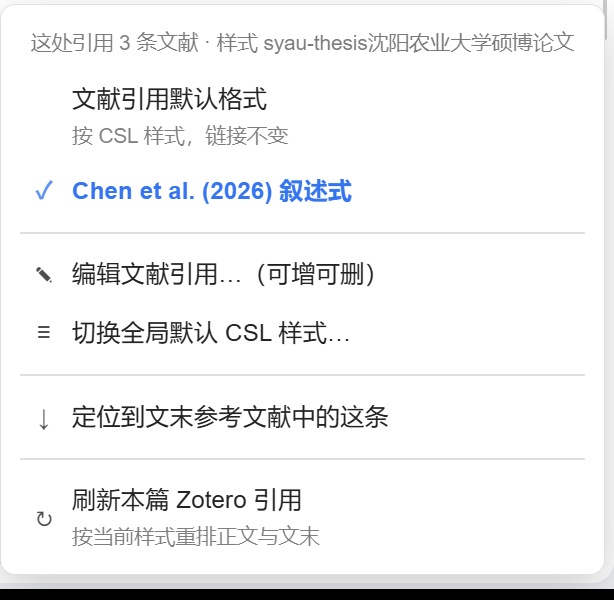
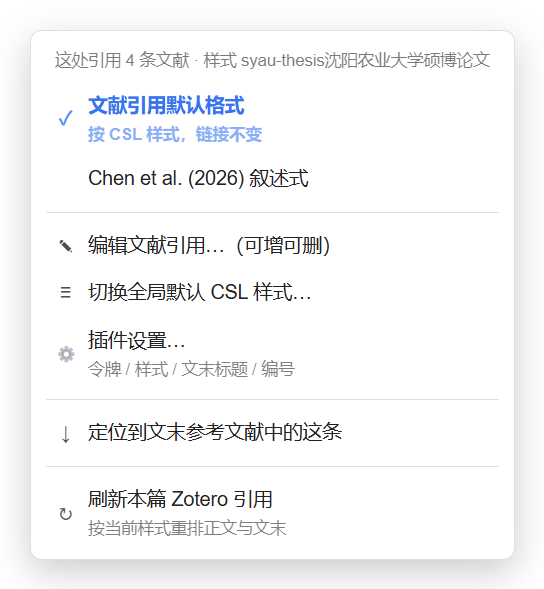
1.2.33：README 补齐引用快照等新功能，首图与右键菜单配图换成真实截图
README（中英同步）：
- 新增 2.9 引用快照兜底、2.10 只改该改的块、3.7 文献被删/换机的兜底
- 新增 7.5「文献在 Zotero 里被删了，或者换了台电脑」：三处痕迹对照、快照行为、
  体积与六条实测边界（不补回 Zotero、数字式编号是上次的、如何清除）
- 5.3 补「样式状态」一行与缺样式拒绝重排的说明；5.2 补换机要装 .csl
- 6 触发词表补「右键 · 插件设置…」，块内右键顺延为 6.14
- 7.2 由「右键 5 项」更正为 7 项，补「插件设置…」
- 8 现有不足补快照三条局限；9 技术实现补「引用快照」「最小写入」两行
- 版本史加 1.2.33

配图：
- assets/example-doc.png 换成真实论文截图（APA 作者年 + 合并引用 + 叙述式 +
  References 表），去掉截图里的文本光标，256 色压缩 301KB→137KB
- assets/context-menu.png 重拍（原图缺「插件设置…」），白底重截 57KB→18KB

diff --git a/README_en.md b/README_en.md
@@ -1,4 +1,4 @@
-# Zotero Cite (siyuan-plugin-zotero-cite) v1.2.32
+# Zotero Cite (siyuan-plugin-zotero-cite) v1.2.33
 
 **English** | [简体中文](./README.md)
 
@@ -10,20 +10,22 @@ Insert Zotero citations into SiYuan — both the in-text citation and the biblio
 
 ## 2 What it does
 
-<img src="assets/example-doc.png" alt="In-text citation and the generated bibliography" onerror="this.src='/plugins/siyuan-plugin-zotero-cite/assets/example-doc.png'">
+<img src="assets/example-doc.png" alt="In-text citations and the generated References list" onerror="this.src='/plugins/siyuan-plugin-zotero-cite/assets/example-doc.png'">
 
-Both the in-text citation and the bibliography at the bottom are rendered directly by the CSL style installed in Zotero. Switch styles once and both sides are re-paginated — no manual editing.
+Both the in-text citations — merged as `(Dela Cruz et al., 2026; Ge et al., 2026)`, narrative as `Ye et al. (2026)` — and the References list at the bottom are rendered directly by the CSL style active in Zotero. Switch styles once and both sides are re-rendered with no manual editing; the ↗ next to each entry jumps back to Zotero.
 
 | Feature | Detail |
 |---|---|
 | 2.1 One-click insert | Select items in Zotero (multi-select allowed), click once in SiYuan, both the text and the bibliography update. No dialog |
 | 2.2 Text follows CSL exactly | How the citation reads, how multiple items are joined, whether `[n]` appears — all decided by the active Zotero style (APA, Nature, IEEE, GB/T 7714, ACS, journal-specific styles) |
 | 2.3 Two forms, mixable per citation | Default form (parent item / author-date / numeric) plus narrative `Chen et al. (2021)`; you can mix them in one document and even stack them as `Chen et al. (2021) [1]` |
-| 2.4 Edit existing citations | Switch form, add or remove references of that citation, change the document-wide CSL style, jump to the matching bibliography entry |
-| 2.5 Bibliography maintained automatically | Order follows the style (alphabetical for author-date, citation order for numeric); entry numbering follows the CSL style by default, and can be turned off or replaced with a custom template; re-rendered when the style changes |
+| 2.4 Edit existing citations | Switch form, add or remove references of that citation, change the document-wide CSL style, jump to the matching bibliography entry, refresh the document, or open the plugin settings right from the menu |
+| 2.5 Bibliography maintained automatically | Order follows the style (alphabetical for author-date, citation order for numeric); entry numbering follows the CSL style by default, and can be turned off or replaced with a custom template; re-rendered when the style changes; rebuilt in place, so an appendix written after the list never gets swallowed into the bibliography |
 | 2.6 Click to jump back to Zotero | Clicking a citation selects that item in Zotero; multi-item citations select all of them |
 | 2.7 Parent items only | Selecting a PDF or an annotation in Zotero resolves to its parent item; standalone notes and attachments never appear |
 | 2.8 Undo | 20 steps per document, style switches included |
+| 2.9 Citation snapshot fallback | The trimmed CSL data of every reference plus its last rendered text are stored in a document attribute (~0.3 KB each). When an item is gone from Zotero, or missing on this machine after a sync, re-rendering restores the previous text and tells you exactly which keys it could not find |
+| 2.10 Only the blocks that changed | Blocks whose content is unchanged are not written at all — the same holds for citations inside lists, tables and headings; ten consecutive runs leave both content and block attributes untouched |
 
 ## 3 Problems it solves in SiYuan
 
@@ -35,6 +37,7 @@ Both the in-text citation and the bibliography at the bottom are rendered direct
 | 3.4 In-text citations and bibliography entries have no link to each other, so removing a reference means fixing both ends | Both ends share the same itemKey; delete an in-text citation, re-render, and the bibliography entry disappears |
 | 3.5 Finding which paper a sentence came from means digging through Zotero | Click the citation to jump to Zotero with the item selected — all items for a multi-item citation |
 | 3.6 Journal and thesis templates differ wildly; hand-formatting is error-prone | Thousands of CSL styles are available instantly, and custom CSL files work too |
+| 3.7 A reference deleted from Zotero, or missing on this machine after a sync, silently changes the text | The text from the last successful render is kept in a document attribute and used as a fallback; the notification names every key that is no longer in Zotero (see 7.5) |
 
 ## 4 How it compares
 
@@ -79,7 +82,7 @@ Without the Debug Bridge nothing listens on that endpoint and every request fail
 5. SiYuan → Settings → Bazaar → Downloaded → Plugins → Zotero Cite → Settings, paste the same token into "Access token"
 6. Click "Test connection"; `Connected: Zotero 10.x, library ID 1` means you are done
 
-Repeating steps 1–5 is required on a new machine (the token lives in Zotero's `prefs.js` and does not sync with SiYuan).
+Repeating steps 1–5 is required on a new machine (the token lives in Zotero's `prefs.js` and does not sync with SiYuan). A custom `.csl` also has to be installed there, otherwise the settings panel shows a red warning and re-rendering is refused (see "Style status" in 5.3).
 
 ### 5.3 Settings
 
@@ -88,10 +91,13 @@ Repeating steps 1–5 is required on a new machine (the token lives in Zotero's 
 | Bridge URL | `http://127.0.0.1:23119/debug-bridge/execute` | Rarely needs changing |
 | Access token | empty | The token from step 4 in 5.2 |
 | Default citation form | Default (CSL) | Affects new citations only; existing ones follow their own `?f=` |
-| CSL style | current style | You can paste a style URL directly |
+| CSL style | current style | You can paste a style URL directly. A fresh install defaults to APA, which ships with every Zotero |
 | Pick from installed styles… | — | Opens the style picker; search and switch, whole document re-renders |
+| Style status | checked automatically | Opening the panel verifies that this style exists in Zotero on this machine: `✓ installed: …` in grey; `✗ this style is not installed, refresh and insert will be refused` in red, with a "use the built-in APA" button; if Zotero is unreachable it only says it cannot tell, and offers no button |
 | Bibliography heading | Auto | "Auto" picks 参考文献 or References from the CSL style's language; choose "no heading" to output entries only and write the heading yourself; or type any custom text |
 | Citations carry links | on | Turn off for plain text; click-to-Zotero and the right-click menu stop working |
+
+When the style is missing the plugin **does not** quietly substitute another one and overwrite the whole document: the refresh is refused, not a single byte of the body changes, and the message names the missing style. This typically happens when SiYuan settings sync to a machine that lacks that `.csl`.
 
 ## 6 Slash command and shortcuts
 
@@ -109,7 +115,8 @@ Repeating steps 1–5 is required on a new machine (the token lives in Zotero's 
 | 6.10 Right-click · Change document CSL style… | Right-click an in-text citation → item 4, opens the style picker | — |
 | 6.11 Right-click · Locate this entry in the bibliography | Right-click an in-text citation → item 5, scrolls to the entry and highlights it for 1.9 s | — |
 | 6.12 Right-click · Refresh Zotero citations in this document | Right-click an in-text citation → item 6, re-renders every citation and the bibliography with the current style | — |
-| 6.13 In-block right-click · Insert Zotero citation | Right-click inside any paragraph → "Insert Zotero citation", inserts the items currently selected in Zotero | — |
+| 6.13 Right-click · Plugin settings… | Right-click an in-text citation → item 7, opens this plugin's settings page directly (no need to dig through the bazaar) | — |
+| 6.14 In-block right-click · Insert Zotero citation | Right-click inside any paragraph → "Insert Zotero citation", inserts the items currently selected in Zotero | — |
 
 The right-click menu only works on **in-text citations**, and only affects the citation you clicked. The `[↗]` link on a bibliography entry does not open the menu — it is the jump-back-to-Zotero link. None of the menu items has a default shortcut; bind the matching commands in Settings → Keymap → Plugins if you want one.
 
@@ -127,7 +134,7 @@ The right-click menu only works on **in-text citations**, and only affects the c
 
 If nothing is selected in Zotero you get a one-line hint, never a dialog.
 
-### 7.2 Edit an existing citation (right-click, 6 items)
+### 7.2 Edit an existing citation (right-click, 7 items)
 
 Right-click an in-text citation and you get this menu:
 
@@ -139,7 +146,9 @@ Right-click an in-text citation and you get this menu:
 | `Chen et al. (2026)` narrative | Switches to narrative; this citation only; greyed out for numeric styles |
 | Edit references… (add or remove) | Lists every item of this citation — untick to remove; append the current Zotero selection or add by keyword search |
 | Change document CSL style… | Reads styles installed in Zotero, applies your pick, re-renders the whole document |
+| Plugin settings… | Opens this plugin's settings page: token, default form, style and bibliography heading all live there |
 | Locate this entry in the bibliography | Scrolls to the entry and highlights it for 1.9 s; all items get highlighted |
+| Refresh Zotero citations in this document | Re-renders every citation and the bibliography with the current style — the same as running "re-render the whole document" from the menu |
 
 "Edit references…" opens the window below. Unticking an item drops it from this citation; numbers are only assigned to the items you keep, and they renumber as you untick:
 
@@ -165,23 +174,55 @@ An in-text citation is just a markdown link:
 [(Bordoloi et al., 2019)](zotero://select/library/items/UAPYI8NA?f=csl)
 ```
 
-1. The link is the single source of truth; re-rendering collects order from the body
+1. The link is the only source of order on re-render: every `zotero://` link is collected from the body and numbered by appearance
 2. `?f=` is the form of that citation (`csl` / `narr`), stored per citation
 3. Multi-item: `items/KEY1?zkeys=KEY1,KEY2&f=csl`
 4. Bibliography entry links carry `?bib=1` and are skipped when re-rendering, so deleted references do not come back
+5. The visible text of each reference also has a document-level snapshot as a fallback — see the next section
+
+### 7.5 A reference was deleted from Zotero, or you moved to another machine
+
+Normally every string is fetched from Zotero and re-rendered each time. Once an item cannot be found on this machine (deleted, never synced here, or a different library), older builds left three traces with **no warning at all**:
+
+| Trace | Symptom |
+|---|---|
+| The in-text citation | Still shows the old text and looks fine, but it no longer resolves and is not numbered |
+| A merged citation (A + B) | Only A remains while `?zkeys=` still lists B — no error, nothing visible |
+| The bibliography | A trailing row containing nothing but `↗` |
+
+Every re-render now packs "trimmed CSL data of each reference + the text rendered last time" into the document attribute `custom-zotero-bibsnap`, and uses it whenever an item cannot be found:
+
+| Case | Current behaviour |
+|---|---|
+| Bibliography entry | Restored from the snapshot instead of becoming an empty row |
+| Merged in-text citation | Overwritten with the complete text stored for that cluster, so nothing silently drops out |
+| Notification | The message gains `; N references not found in Zotero (KEY1, KEY2…), restored from the citation snapshot saved in this document` |
+| A document that never rendered successfully | No snapshot exists; those spots are left untouched and the message says so |
+
+Measured behaviour and limits:
+
+1. ~0.3 KB per reference (abstract, notes and tags are dropped, only fields needed to rebuild an entry are kept); 100 references ≈ 30 KB, and it syncs with the document
+2. The snapshot is only updated by a **successful** render; a cluster that still contains an unfindable key never overwrites the old snapshot with the degraded text (otherwise one fallback would permanently downgrade the archive)
+3. The snapshot only protects rendering. It does **not** push items back into Zotero — real recovery still means re-importing from a backup or library
+4. Adding a reference to that citation changes the key combination, so it renders from the new combination and the old snapshot no longer applies there
+5. With numeric styles `[n]` is a document-wide sequence number; a restored entry carries last time's number and may not match the current order — check before submission
+6. To wipe it completely, delete the `custom-zotero-bibsnap` attribute; the next render creates a fresh one
 
 ## 8 Limitations
 
 1. **Hard dependency on Zotero + Debug Bridge** — without it the plugin does nothing; it is not self-contained
 2. **Zotero only** — EndNote, Mendeley, NoteExpress and direct PubMed lookup are not supported
 3. **Desktop only** — it needs the local port 23119, so the web and mobile clients cannot use it
-4. **Bibliography entries are owned by the plugin** — every entry carries a `custom-zotero-bib` block attribute and a re-render only replaces those marked blocks. Do not edit that attribute by hand, and do not expect entries moved elsewhere to still be recognised
+4. **Bibliography entries are owned by the plugin** — every entry carries a `custom-zotero-bib` block attribute and a re-render only replaces those marked blocks. Do not edit that attribute by hand, and do not expect entries moved elsewhere to still be recognised. Rebuilds are inserted back in place, between the previous and next entry, so an acknowledgement or appendix written after the list is not swallowed into it; if every old entry is gone and there is no neighbour to anchor to, the new list can only be appended at the end of the document
 5. **"Auto" heading is a guess** — the test is whether the CSL style title contains CJK characters, plus keywords in the style ID (GB/T 7714, CSTR, …). A homemade private style may be misjudged; set the heading text explicitly in settings
 6. **Undo is a separate stack** — `Ctrl+Z` only covers inserting; re-rendering and style switches need the plugin's own undo command
 7. **Narrative form is author-date only** — IEEE and GB/T numeric styles have no such concept
 8. **Bibliography numbering follows the CSL style by default** — numeric styles produce `[1]` / `1.` (a leading `1. ` is written in escaped form so markdown does not turn it into an ordered list); author-date styles have none. You can switch to "no numbering" or a custom template (`{n}` = sequence) in settings. Check your journal's requirement before submission
 9. **Reconfiguration on a new machine** — Debug Bridge and the token must be reinstalled and re-entered
 10. **Performance degrades with document size** — a long document with many citations re-renders block by block and visibly pauses. **Recommended ceiling: keep one document under 100,000 characters and fewer than 300 citations**
+11. **The snapshot is a fallback, not a backup** — `custom-zotero-bibsnap` only keeps the fields needed for rendering, so it keeps old documents looking right but cannot push items back into Zotero, and it cannot restore abstracts, notes or PDFs. Real recovery still means re-importing
+12. **Snapshot numbering is last time's** — with numeric styles `[n]` is assigned by CSL in document order, so a restored entry carries the previous number and may not match the current sequence; documents that never rendered successfully have no snapshot at all
+13. **The snapshot syncs with the document** — about 0.3 KB per reference (100 references ≈ 30 KB). It lands in the `.sy` file and travels with SiYuan sync, so citation-heavy documents carry a larger attribute value
 
 ---
 
@@ -190,9 +231,11 @@ An in-text citation is just a markdown link:
 | Step | Approach |
 |---|---|
 | Talking to Zotero | Talks to `http://127.0.0.1:23119/debug-bridge/execute` directly, running a small piece of JS inside Zotero to fetch item metadata, installed CSL styles and the rendered citation string. No helper process, no proxy service |
-| What a citation is | An ordinary markdown link `[(Bordoloi et al., 2019)](zotero://select/library/items/UAPYI8NA?f=csl)`; the link itself is the single source of truth (see 7.4) |
+| What a citation is | An ordinary markdown link `[(Bordoloi et al., 2019)](zotero://select/library/items/UAPYI8NA?f=csl)`. The link is the source of order and the form marker on re-render (see 7.4), with a document-level snapshot as fallback (see 7.5) |
 | Citation text | Rendered by the CSL style installed in Zotero; in-text and bibliography strings come from the same source and are re-rendered together when the style changes |
-| Bibliography | Entries are recognised by a `custom-zotero-bib` block attribute (old documents fall back to matching the heading text) and only those marked blocks are replaced; the heading is auto-generated, customised, or omitted entirely per settings; entry links carry `?bib=1` and are skipped on re-render, so deleted references never come back |
+| Bibliography | Entries are recognised by a `custom-zotero-bib` block attribute (old documents fall back to matching the heading text) and only those marked blocks are replaced; new entries are inserted back in place between the previous and next one, and marked by anchor; the heading is auto-generated, customised, or omitted entirely per settings; entry links carry `?bib=1` and are skipped on re-render, so deleted references never come back |
+| Citation snapshot | 27 CSL fields per reference (abstract, notes and tags dropped) plus the last rendered in-text/bibliography text, serialised to JSON, gzipped and base64-encoded into `custom-zotero-bibsnap` (prefix `z1:`; plain base64 with `j0:` when zlib is unavailable). The value contains no quotes, braces or underscores, which sidesteps the entity escaping and `_esc_newline_` rewriting of block attributes |
+| Minimal writes | Each block's canonical content is computed first (code masked → block attributes stripped → zero-width characters removed); if it already matches and no attribute has leaked into the text, the block is skipped entirely. Best-effort writes fail quietly instead of turning a kernel error into a notification |
 | Undo | One stack per document, 20 steps, written back through the kernel `/api/transactions` API |
 | Runtime | SiYuan desktop renderer (Node available); the web and mobile clients have no port 23119 and cannot use it |
 | Code layout | A single `index.js`: plugin class + three dialogs + right-click menu + settings page; `index.css` only handles layout and takes every color from SiYuan CSS variables, so light and dark themes follow automatically |
@@ -221,6 +264,7 @@ MIT License © 2026 ttChen
 
 | Version | Date | Highlights |
 |---|---|---|
+| 1.2.33 | 2026-11-04 | **Citation snapshot**: the trimmed CSL data and last rendered text of every reference are stored in the document attribute `custom-zotero-bibsnap`, so an item missing from Zotero is restored from the previous text and named in the notification (no more silent empty text / dropped reference in a merged citation / empty `↗` row). The bibliography is now rebuilt in place, so an appendix written after the list is no longer swallowed into it. Re-rendering no longer throws `tree not found` toasts; citations inside lists, tables and headings stop being rewritten on every run; a just-inserted citation no longer stays unrendered; command-palette failures are reported. Added a 30-case automated test suite (idempotency / snapshot / missing item / undo / concurrency / 100-reference scale) |
 | 1.2.32 | 2026-11-04 | Default style pinned to APA, which ships with every Zotero install, so first use can no longer fail on a missing style; a style missing on this machine now refuses to refresh (instead of silently swapping in another style) and the settings panel shows a red warning plus a one-click "use the built-in APA" button |
 | 1.2.31 | 2026-11-04 | Setup guide moved to a new domain (`ttchen.cn42.ug.link`, the old luyouxia tunnel was unstable); added a "Plugin settings…" item to the citation context menu |
 | 1.2.30 | 2026-11-04 | Bibliography heading is now "Auto" (参考文献 / References from the CSL style language, or none at all, or custom); entries are located by the `custom-zotero-bib` block attribute, so renaming or deleting the heading no longer duplicates the list |

diff --git a/README.md b/README.md
@@ -1,4 +1,4 @@
-# Zotero Cite（siyuan-plugin-zotero-cite）v1.2.32
+# Zotero Cite（siyuan-plugin-zotero-cite）v1.2.33
 
 **简体中文** | [English](./README_en.md)
 
@@ -10,20 +10,22 @@
 
 ## 2 主要功能
 
-<img src="assets/example-doc.png" alt="正文引用与文末参考文献表" onerror="this.src='/plugins/siyuan-plugin-zotero-cite/assets/example-doc.png'">
+<img src="assets/example-doc.png" alt="正文引用与文末 References 文献表" onerror="this.src='/plugins/siyuan-plugin-zotero-cite/assets/example-doc.png'">
 
-正文那行引用和文末的「参考文献」都由 Zotero 的 CSL 样式直接渲染：换一套样式，两处一起重排，不用手改一个字。
+正文里的引用（`(Dela Cruz et al., 2026; Ge et al., 2026)` 这种多条合并、`Ye et al. (2026)` 这种叙述式）和文末的 References 表，全部由 Zotero 里当前那套 CSL 样式直接渲染：换一套样式，两处一起重排，不用手改一个字；每个条目后面的 ↗ 点一下就跳回 Zotero。
 
 | 功能 | 说明 |
 |---|---|
 | 2.1 一步插入 | 在 Zotero 选中文献（可多选），回思源点一下入口即插入，正文与文末同时更新，不弹窗 |
 | 2.2 文本严格按 CSL | 正文长什么样、多条怎么合并、要不要带 `[n]`，全部由 Zotero 当前样式决定（APA、Nature、IEEE、GB/T 7714、ACS、期刊自定义样式均可） |
 | 2.3 两种形态、逐条混用 | 默认形态（父条目/作者年/数字）+ 叙述式 `Chen et al. (2021)`；同一篇里可混用，也支持叠加 `Chen et al. (2021) [1]` |
-| 2.4 右键改已有引用 | 切换形态、增删该处文献、切换全文 CSL 样式、定位到文末对应条目、刷新本篇引用 |
-| 2.5 文末文献表自动生成 | 顺序按样式（作者年=字母序，数字式=引用序）；编号默认跟随 CSL 样式，可在设置里关掉或换成自定义写法；换样式后自动重排 |
+| 2.4 右键改已有引用 | 切换形态、增删该处文献、切换全文 CSL 样式、定位到文末对应条目、刷新本篇引用、直接打开插件设置 |
+| 2.5 文末文献表自动生成 | 顺序按样式（作者年=字母序，数字式=引用序）；编号默认跟随 CSL 样式，可在设置里关掉或换成自定义写法；换样式后自动重排；重建时按原位置插回，写在表后面的致谢、附录不会被卷进去 |
 | 2.6 点击回跳 Zotero | 单击引用即在 Zotero 选中该文献；多条目合并的引用会同时选中全部 |
 | 2.7 只认父条目 | 在 Zotero 里选中 PDF 或批注，自动上溯到所属文献；独立笔记/独立附件不出现 |
 | 2.8 可撤销 | 每篇文档 20 步，样式切换也能回滚 |
+| 2.9 引用快照兜底 | 每条文献的精简 CSL 数据与上次渲染出的文本一起存进文档属性（约 0.3 KB/条）。Zotero 里删了这条、或换台机没同步全时，重排用快照把原文放回去，并明确告诉你哪几条已经找不到 |
+| 2.10 只改该改的块 | 内容没变的块一个字节都不写，列表、表格、标题里的引用同样成立；连跑十轮，文档内容与块属性完全不动 |
 
 ## 3 它解决了思源的哪些问题
 
@@ -35,6 +37,7 @@
 | 3.4 正文引用与文末条目没有对应关系，删文献要两头对 | 同一条文献在正文与文末共用 itemKey，删掉正文引用后重排，文末自动收掉 |
 | 3.5 想查某句话出自哪篇，得自己回 Zotero 找 | 点引用直接跳 Zotero 并选中该条目，多条目一起选 |
 | 3.6 中英文期刊、学位论文模板各异，手工排极易出错 | CSL 样式库几千种随取随用，导入自定义 CSL 同样生效 |
+| 3.7 文献在 Zotero 里被删、或换台机没同步全，正文引用会无声变样 | 上次成功重排的原文存在文档属性里，取不到时用它兜底，并在提示里点名哪几条已经不在 Zotero 中（详见 7.5） |
 
 ## 4 和其他思源文献插件比
 
@@ -81,7 +84,7 @@
 5. 思源 → 设置 → 集市 → 已下载 → 插件 → Zotero 引用 → 设置，把同一令牌填进「访问令牌」
 6. 点「测试连接」，看到 `连接正常：Zotero 10.x，库 ID 1` 即通
 
-换电脑要重做第 1–5 步（令牌存在 Zotero 的 prefs.js，不随思源同步）。
+换电脑要重做第 1–5 步（令牌存在 Zotero 的 prefs.js，不随思源同步）。自定义的 `.csl` 也要在新机装一遍，否则设置面板会红字提示缺样式、重排直接拒绝（见 5.3「样式状态」）。
 
 ### 5.3 设置项
 
@@ -90,10 +93,13 @@
 | Bridge 地址 | `http://127.0.0.1:23119/debug-bridge/execute` | 一般不用改 |
 | 访问令牌 | 空 | 5.2 第 4 步设置的 token |
 | 默认引用形态 | 文献引用默认格式 | 只影响新插入的引用；已有引用按自己链接里的 `?f=` 走 |
-| CSL 样式 | 当前使用样式 | 可手填样式 URL |
+| CSL 样式 | 当前使用样式 | 可手填样式 URL。新装默认为 Zotero 自带、任何一台机都有的 APA |
 | 从 Zotero 已装样式里选一个… | — | 打开样式选择器，搜索后一键切换，全文重排 |
+| 样式状态 | 自动检查 | 打开面板即核对当前样式在这台机的 Zotero 里是否存在：`✓ 本机 Zotero 已装：…` 灰字；`✗ 本机 Zotero 没有这个样式，重排与插入会被拒绝` 红字，并给一个「改用 Zotero 自带样式（APA）」按钮；Zotero 没连上时只提示无法确认，不给按钮 |
 | 文末标题 | 自动 | 「自动」＝按 CSL 样式的语言选：「参考文献」或 References；选「不生成标题」就只输出条目，标题自己在文档里写；也可以填任意文字 |
 | 引用带链接 | 开 | 关掉只留纯文本，点击跳转与右键菜单失效 |
+
+样式缺失时**不会**悄悄换成别的样式把全篇覆盖掉：重排直接拒绝，正文一个字不动，提示里说明缺哪个。常见于思源配置同步到了另一台没装这个 `.csl` 的电脑。
 
 ## 6 触发词与快捷键
 
@@ -111,7 +117,8 @@
 | 6.10 右键 · 切换全局默认 CSL 样式… | 在正文引用上右键 → 第四项，打开样式选择器 | — |
 | 6.11 右键 · 定位到文末参考文献中的这条 | 在正文引用上右键 → 第五项，滚到文末并高亮 1.9 秒 | — |
 | 6.12 右键 · 刷新本篇 Zotero 引用 | 在正文引用上右键 → 第六项，按当前样式重排本篇正文引用与文末 | — |
-| 6.13 块内右键 · 插入 Zotero 文献引用 | 在任意段落内部右键 → 「插入 Zotero 文献引用」，用 Zotero 当前选中项直接插入 | — |
+| 6.13 右键 · 插件设置… | 在正文引用上右键 → 第七项，直接打开本插件的设置面板（改令牌、换样式不用再去集市里翻） | — |
+| 6.14 块内右键 · 插入 Zotero 文献引用 | 在任意段落内部右键 → 「插入 Zotero 文献引用」，用 Zotero 当前选中项直接插入 | — |
 
 右键菜单只作用于**正文引用**和它所属的那一条引用；点文末参考文献条目上的 `[↗]` 不弹菜单（那是回跳 Zotero 的入口）。菜单没有默认快捷键，需要的话可在 设置 → 快捷键 → 插件 里给对应命令绑定。
 
@@ -129,7 +136,7 @@
 
 Zotero 里没选中条目时只提示一句，不弹窗。
 
-### 7.2 改已有引用（右键 5 项）
+### 7.2 改已有引用（右键 7 项）
 
 在正文引用上右键，弹出的菜单长这样：
 
@@ -141,6 +148,7 @@ Zotero 里没选中条目时只提示一句，不弹窗。
 | `Chen et al. (2026)` 叙述式 | 改成叙述式，只影响这一处；数字式样式下置灰 |
 | 编辑文献引用…（可增可删） | 列出这处引用的所有条目，取消勾选即删；可从 Zotero 当前选中追加，或按关键词搜索添加 |
 | 切换全局默认 CSL 样式… | 读 Zotero 已装样式，搜索后应用，全文按新样式重排 |
+| 插件设置… | 直接打开本插件的设置面板：令牌、默认形态、样式、文末标题都在这一页 |
 | 定位到文末参考文献中的这条 | 滚到文末对应条目并高亮 1.9 秒，多条会全部标出 |
 | 刷新本篇 Zotero 引用 | 按当前 CSL 样式重排本篇：正文全部引用 + 文末列表，等于在右键里直接执行一次「重排全文」 |
 
@@ -168,23 +176,55 @@ Zotero 里没选中条目时只提示一句，不弹窗。
 [(Bordoloi et al., 2019)](zotero://select/library/items/UAPYI8NA?f=csl)
 ```
 
-1. 链接是唯一数据源，重排时从正文回收顺序
+1. 链接是重排时唯一的顺序来源：从正文扫出所有 `zotero://` 链接，按出现顺序编号
 2. `?f=` 是这处引用的形态（`csl` / `narr`），逐条独立
 3. 多条目：`items/KEY1?zkeys=KEY1,KEY2&f=csl`
 4. 文末条目链接带 `?bib=1`，重排时跳过，不会把已删文献「复活」
+5. 每条文献的显示文本另有一份文档级快照兜底，见下一节
+
+### 7.5 文献在 Zotero 里被删了，或者换了台电脑
+
+正常流程下，正文与文末的文字每次都从 Zotero 现取现渲染。一旦某条文献在本机 Zotero 里取不到（被删掉、这台机没同步下来、库换了），没有快照兜底时会出现三处**没有任何提示**的痕迹：
+
+| 痕迹 | 表现 |
+|---|---|
+| 正文那处 | 还是旧文字，看起来正常，但点开跳不过去，也不参与编号 |
+| 合并引用（A + B） | 只剩 A，`?zkeys=` 里却还挂着 B 的 key，不报错，也看不出来 |
+| 文末 | 末尾多一条只有 `↗` 的空行 |
+
+现在每次重排都会把「每条文献的精简 CSL 数据 + 上次渲染出的正文/文末文本」压进文档属性 `custom-zotero-bibsnap`，取不到文献时用它补回原文：
+
+| 情形 | 现在的行为 |
+|---|---|
+| 文末条目 | 用快照里的条目原文补回，不再是空行 |
+| 正文合并引用 | 用快照里这一处的完整文本覆盖，不会静默少一条 |
+| 提示 | 重排结束多一句：`Zotero 里找不到 N 条文献（KEY1、KEY2…），已用文档里保存的引用快照补全原文` |
+| 从没成功重排过的文档 | 没有快照可补，这几处保持原样不动，提示改为「文档里还没有它们的快照」 |
+
+几条实测数据与边界：
+
+1. 单条约 0.3 KB（剔除摘要、笔记、关键词，只留重建条目需要的字段），100 条约 30 KB，跟着文档同步走
+2. 快照只在上次重排**成功**时更新；某处还有取不到的条目时，不会拿残缺文本去覆盖旧快照（否则兜底一次就永久降级）
+3. 快照只兜渲染，**不会**把文献补回 Zotero。要真恢复，还是得从备份或文献库重新导入
+4. 往那条引用里新加了文献，组合变了就按新组合重新渲染，旧快照不再适用于这一处
+5. 数字式样式下，`[n]` 是全篇顺序号，快照条目写回的是上次的文本，编号可能与当前顺序不一致，投稿前对一遍
+6. 想彻底清掉：删文档属性 `custom-zotero-bibsnap` 即可（下次重排会重新生成一份）
 
 ## 8 现有不足
 
 1. **强依赖 Zotero + Debug Bridge**：没装就完全不能用，不是自包含工具
 2. **只支持 Zotero**：EndNote、Mendeley、NoteExpress、PubMed 直连都不支持
 3. **仅桌面端**：依赖本机 23119 端口，网页版 / 移动端用不了
-4. **文末条目由插件接管**：每条文献带一个 `custom-zotero-bib` 块属性，重排时只替换这些标记块。别手动改这些条目的属性，也别指望把条目挪到别处还能被认出来
+4. **文末条目由插件接管**：每条文献带一个 `custom-zotero-bib` 块属性，重排时只替换这些标记块。别手动改这些条目的属性，也别指望把条目挪到别处还能被认出来。重建时按旧条目的前后邻居原位插回，表后面的致谢、附录不会被卷进去；但旧条目已全部删光、又没有邻居可参照时，新表只能追加到文档末尾
 5. **标题「自动」是猜的**：判据是 CSL 样式的标题里有没有汉字、以及样式 ID 的关键字（GB/T 7714、CSTR 等）。自造的私有样式可能判错，这时在设置里直接填标题文字
 6. **撤销是独立栈**：`Ctrl+Z` 只能撤「插入」这一步，重排与样式切换必须用插件自己的撤销命令
 7. **叙述式仅限作者年样式**：IEEE、GB/T 顺序编码这类数字样式没有叙述式概念
 8. **文末编号默认跟随 CSL 样式**：数字式样式会带 `[1]` / `1.`（`1. ` 会写成转义形式防止被当成有序列表），作者年样式本来就没有编号。设置里可改为「不显示编号」或自定义模板（`{n}` 为序号占位）。投稿前请按期刊要求核对
 9. **换机需重配**：Debug Bridge 与 token 都要重装重填
 10. **性能随文档规模下降**：引文很多的长文档，一次重排逐块读写，会明显停顿。**建议单篇文档不超过 10 万字、引用不超过 300 条**
+11. **快照能兜底、不能补回**：`custom-zotero-bibsnap` 只保存渲染所需的精简字段，能保证旧文档文字不变样，但没法据此把文献一键补回 Zotero，也补不出摘要、笔记、PDF。要真恢复还是得从备份或文献库重新导入
+12. **快照的编号是「上次的」**：数字式样式里 `[n]` 由 CSL 按全篇顺序分配，缺条时写回的是上次渲染的文本，编号可能与当前顺序不一致；从没成功重排过的文档则完全没有快照可兜
+13. **快照跟着文档属性同步**：约 0.3 KB/条（100 条约 30 KB），会进 `.sy` 文件并随思源同步走。引用特别多的长文档，属性值会一起变大
 
 ---
 
@@ -193,9 +233,11 @@ Zotero 里没选中条目时只提示一句，不弹窗。
 | 环节 | 做法 |
 |---|---|
 | 与 Zotero 通信 | 直连本机 `http://127.0.0.1:23119/debug-bridge/execute`，把一小段 JS 送进 Zotero 执行，取回条目元数据、已装 CSL 样式、渲染好的引文串。没有中间进程，也没有中转服务 |
-| 引用落地形态 | 一条普通 markdown 链接 `[(Bordoloi et al., 2019)](zotero://select/library/items/UAPYI8NA?f=csl)`，链接本身是唯一数据源（详见 7.4） |
+| 引用落地形态 | 一条普通 markdown 链接 `[(Bordoloi et al., 2019)](zotero://select/library/items/UAPYI8NA?f=csl)`。链接是重排时的顺序来源与形态标记（详见 7.4），另有一份文档级快照兜底（详见 7.5） |
 | 正文渲染 | 交给 Zotero 里已装的 CSL 样式渲染，正文串与文末串同源；换样式时两处一起重排 |
-| 文末列表 | 靠块属性 `custom-zotero-bib` 认出条目（老文档退回标题文字匹配），重排时只替换这些标记块；标题按设置自动生成、自定义或完全不生成；条目链接带 `?bib=1`，重排时跳过，已删文献不会复活 |
+| 文末列表 | 靠块属性 `custom-zotero-bib` 认出条目（老文档退回标题文字匹配），重排时只替换这些标记块；按旧条目的前后邻居原位插回，标记也按锚点取；标题按设置自动生成、自定义或完全不生成；条目链接带 `?bib=1`，重排时跳过，已删文献不会复活 |
+| 引用快照 | 每条文献留 27 个 CSL 字段（剔除摘要、笔记、关键词），与上次渲染出的正文/文末文本一起 JSON 化，gzip 后 base64 存进文档属性 `custom-zotero-bibsnap`（前缀 `z1:`，没有 zlib 时退纯 base64 的 `j0:`）。值里不含引号、花括号、下划线，正好绕开块属性的实体转义与 `_esc_newline_` 改写 |
+| 重排的最小改动 | 每块先算规范化内容（遮住代码块 → 剥块属性 → 去零宽字符），与原文一致、且块属性没有压进正文，就整块跳过不写盘；写盘失败尽力而为，不拿内核报错去弹提示打断用户 |
 | 撤销 | 每篇文档独立栈、20 步，写回走内核 `/api/transactions` |
 | 运行环境 | 思源桌面端渲染进程（有 Node）；网页版与移动端没有 23119 端口，用不了 |
 | 代码结构 | 单文件 `index.js`：插件主类 + 三个 Dialog + 右键菜单 + 设置页；`index.css` 只负责版式，颜色全部取思源 CSS 变量，浅色 / 深色主题自动跟随 |
@@ -224,6 +266,7 @@ MIT License © 2026 ttChen
 
 | 版本 | 日期 | 主要变化 |
 |---|---|---|
+| 1.2.33 | 2026-11-04 | **引用快照**：每条文献的精简 CSL 与上次渲染的正文/文末文本存进文档属性 `custom-zotero-bibsnap`，Zotero 里取不到时用原文兜底并明确点名（不再有静默空文本 / 合并引用少一条 / 空 `↗` 行）。文献表改为按旧条目原位插回，写在表后的致谢、附录不再被卷进「参考文献」。重排不再弹 `tree not found` 红条；列表、表格、标题里的引用连跑十轮不再重复改写；刚插入的引用不再停在原文；命令面板重排失败有可见提示。新增 30 个用例的自动化测试台（幂等 / 快照 / 缺条兜底 / 撤销 / 并发 / 百条规模） |
 | 1.2.32 | 2026-11-04 | 默认样式锁定 Zotero 新装自带的 APA，不再可能因样式缺失而第一步失败；样式在本机不存在时明确拒绝重排（不再静默换成别的样式覆盖全篇），设置面板红字提示并给出一键改用 APA 的按钮 |
 | 1.2.31 | 2026-11-04 | 安装说明换新域名（`ttchen.cn42.ug.link`，旧 luyouxia 隧道不稳定）；引用右键菜单加「插件设置…」，一处点开就能改令牌与样式 |
 | 1.2.30 | 2026-11-04 | 文末标题改为「自动」：按 CSL 样式语言出「参考文献」或 References，也可选不生成、或自定义；文末条目改用块属性 `custom-zotero-bib` 定位，改标题/删标题不再重复追加 |
